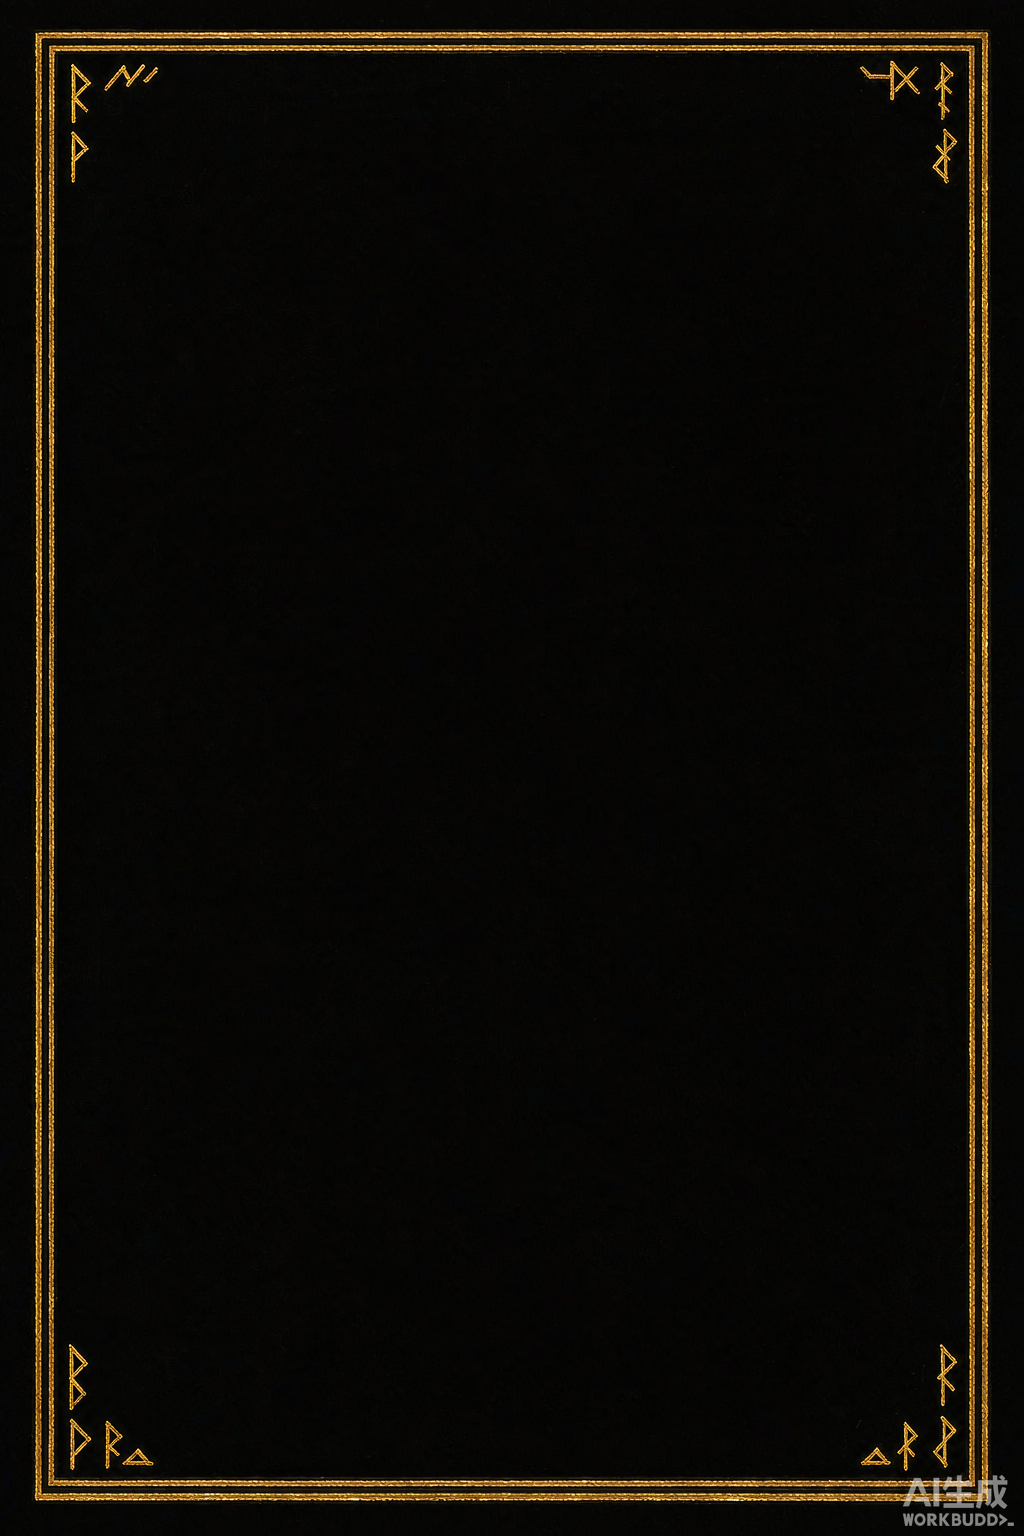
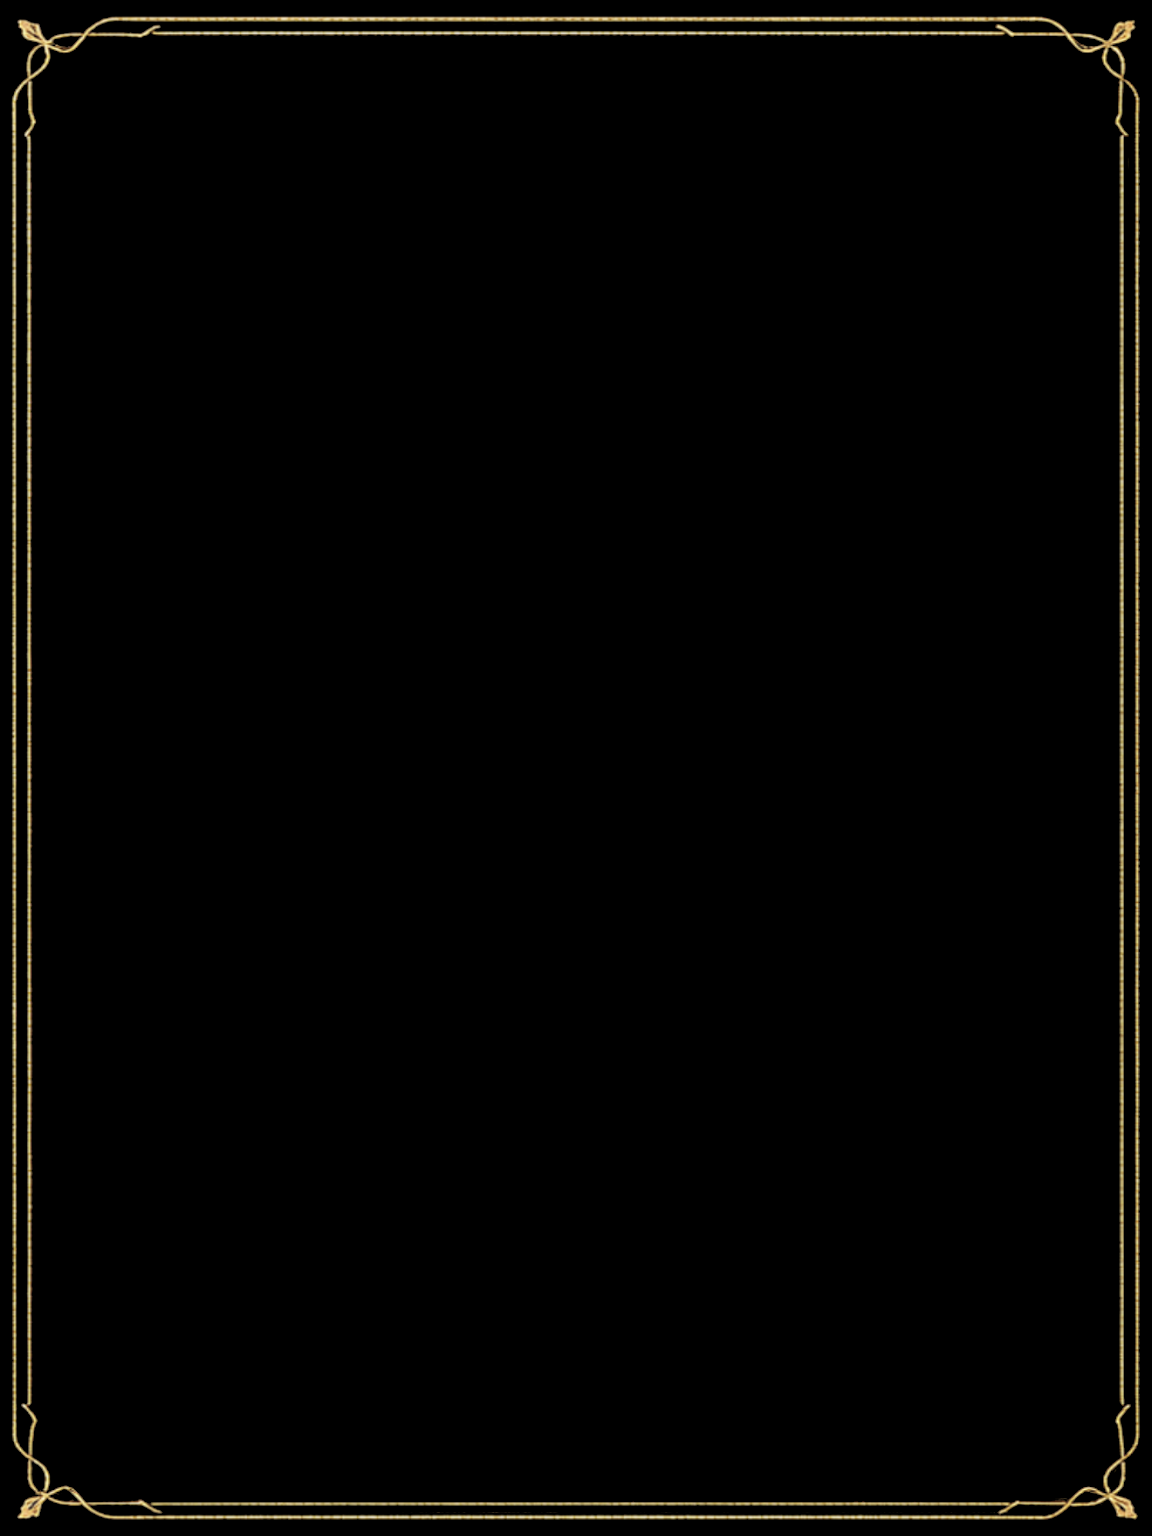
fix(frames): 三档统一修正为3:4比例，rare 截除边缘残留，脚本增矩形裁剪

Changed region(s): [[0.0, 0.0, 1.0, 1.0]]

diff --git a/docs/tools/normalize_frame.py b/docs/tools/normalize_frame.py
@@ -247,6 +247,23 @@ def band_metrics(pixels: bytearray, width: int, height: int, channels: int,
     }
 
 
+def crop_rect(pixels: bytearray, width: int, height: int, channels: int,
+              box: tuple[int, int, int, int]):
+    """按绝对矩形裁剪（端点含）。用于截掉 AI 出图在画布边缘的伪影/残留线。"""
+    x0, y0, x1, y1 = box
+    x0 = max(0, x0)
+    y0 = max(0, y0)
+    x1 = min(width - 1, x1)
+    y1 = min(height - 1, y1)
+    cw, chh = x1 - x0 + 1, y1 - y0 + 1
+    stride = width * channels
+    out = bytearray(cw * chh * channels)
+    for y in range(chh):
+        src = (y0 + y) * stride + x0 * channels
+        out[y * cw * channels:(y + 1) * cw * channels] = pixels[src:src + cw * channels]
+    return out, cw, chh
+
+
 def resize_to(pixels: bytearray, width: int, height: int, channels: int,
               new_w: int, new_h: int) -> bytearray:
     """双线性重采样。用于「裁内容后拉伸铺满目标比例画布」——模型画的比例对不上
@@ -374,7 +391,8 @@ def autocrop_to_content(pixels: bytearray, width: int, height: int, channels: in
 
 def process(path: Path, threshold: int, check_only: bool, autocrop: int = 0,
             masks: list[tuple[int, int, int, int]] | None = None,
-            tight: bool = False, stretch: tuple[int, int] | None = None) -> bool:
+            tight: bool = False, stretch: tuple[int, int] | None = None,
+            crop: tuple[int, int, int, int] | None = None) -> bool:
     try:
         width, height, channels, pixels, ctype = read_png(path)
     except ValueError as e:
@@ -386,6 +404,11 @@ def process(path: Path, threshold: int, check_only: bool, autocrop: int = 0,
             pixels, width, height, channels, threshold, pad=autocrop, tight=tight,
             pad_ratio=not stretch)
         ctype = 2 if channels == 3 else 6  # autocrop 不改通道数
+
+    if crop and not check_only:
+        pixels, width, height = crop_rect(pixels, width, height, channels, crop)
+        ctype = 2 if channels == 3 else 6
+        print(f"    已按矩形裁切 -> {width}x{height}")
 
     if stretch and not check_only:
         sw, sh = stretch
@@ -481,11 +504,20 @@ def main() -> int:
                     help="裁到内容外扩 PAD 像素并补齐 3:4（顺带裁掉外圈水印），默认不裁")
     ap.add_argument("--tight", action="store_true",
                     help="严格按最外侧亮像素裁剪（默认中位数裁，用于抗水印离群）")
+    ap.add_argument("--crop", metavar="X0,Y0,X1,Y1",
+                    help="按绝对矩形裁剪（端点含），用于截掉 AI 出图的边缘残留/伪影")
     ap.add_argument("--stretch", metavar="WxH",
                     help="裁后拉伸到该尺寸铺满画布（如 1024x1536），消除比例不符造成的 margin")
     ap.add_argument("--mask", action="append", default=[], metavar="X,Y,W,H",
                     help="把该矩形涂黑（可多次；坐标按 autocrop 之后的图像），用于清除框内侧水印")
     args = ap.parse_args()
+
+    crop = None
+    if args.crop:
+        vals = [int(v) for v in args.crop.split(",")]
+        if len(vals) != 4:
+            ap.error(f"--crop 需要 X0,Y0,X1,Y1 四个整数: {args.crop}")
+        crop = tuple(vals)
 
     stretch = None
     if args.stretch:
@@ -510,7 +542,7 @@ def main() -> int:
             ok = False
             continue
         ok = process(p, args.threshold, args.check, args.autocrop, masks,
-                        args.tight, stretch) and ok
+                        args.tight, stretch, crop) and ok
     print("体检完成（未改写）" if args.check else "压黑完成")
     return 0 if ok else 1
 
